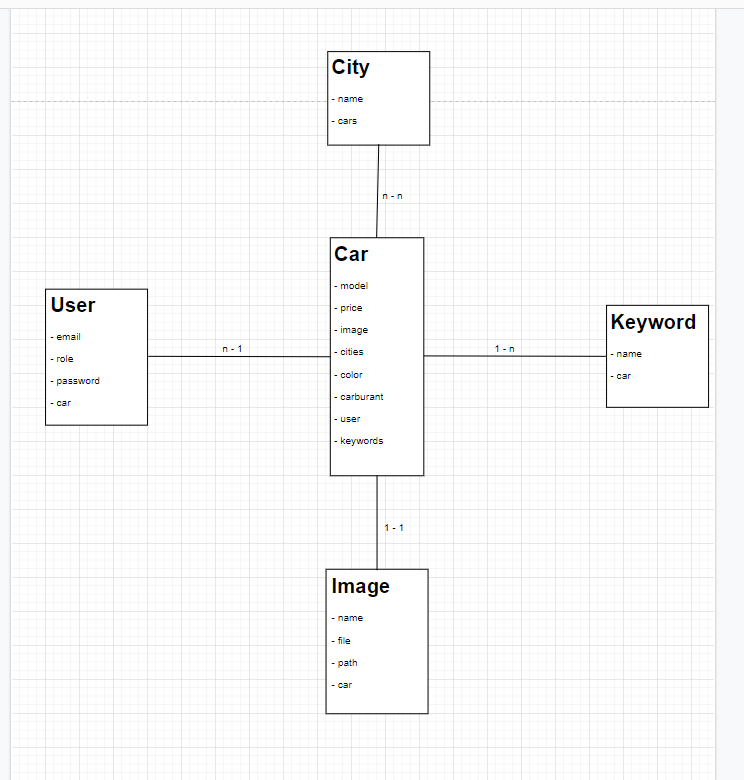
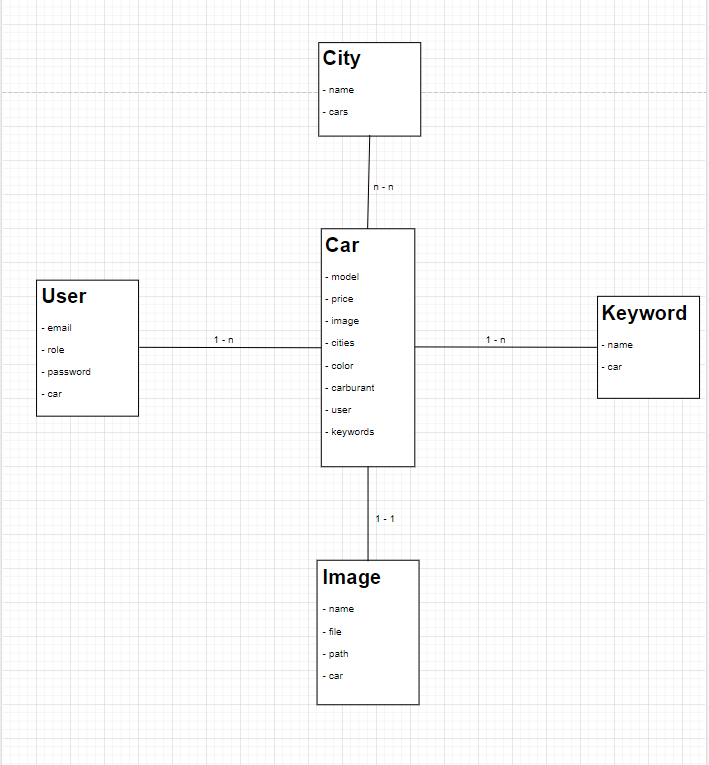
add bdd.png and config files

diff --git a/src/Entity/Car.php b/src/Entity/Car.php
@@ -27,6 +27,11 @@ class Car
      */
     private $price;
 
+    /**
+     * @ORM\ManyToOne(targetEntity=User::class, inversedBy="car")
+     */
+    private $user;
+
     public function getId(): ?int
     {
         return $this->id;
@@ -52,6 +57,18 @@ class Car
     public function setPrice(int $price): self
     {
         $this->price = $price;
+
+        return $this;
+    }
+
+    public function getUser(): ?User
+    {
+        return $this->user;
+    }
+
+    public function setUser(?User $user): self
+    {
+        $this->user = $user;
 
         return $this;
     }

diff --git a/config/bundles.php b/config/bundles.php
@@ -12,4 +12,5 @@ return [
     Doctrine\Bundle\MigrationsBundle\DoctrineMigrationsBundle::class => ['all' => true],
     Symfony\Bundle\SecurityBundle\SecurityBundle::class => ['all' => true],
     Twig\Extra\TwigExtraBundle\TwigExtraBundle::class => ['all' => true],
+    Doctrine\Bundle\FixturesBundle\DoctrineFixturesBundle::class => ['dev' => true, 'test' => true],
 ];
